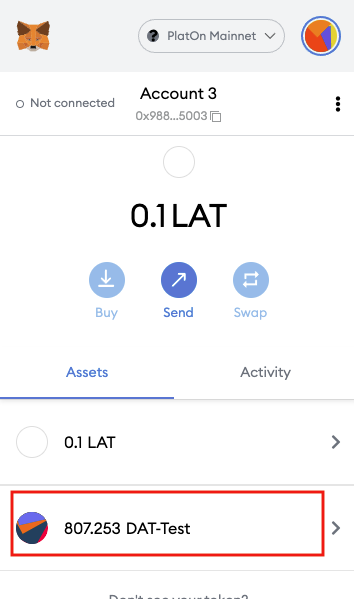
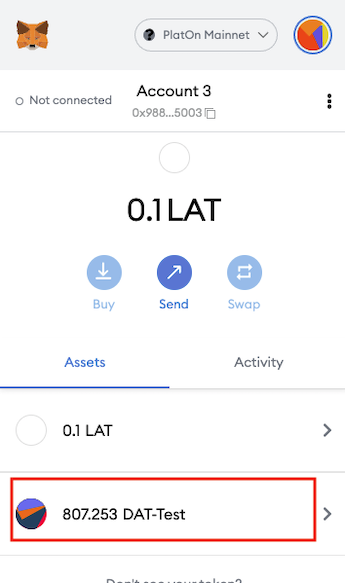
* update show dat-test md layout

diff --git a/Metamask-shows-DAT-Test.md b/Metamask-shows-DAT-Test.md
@@ -10,20 +10,23 @@ You can find tutorial [here](https://forum.latticex.foundation/t/topic/5862)
 
 ## Import your private key
 
-<center class="half">
-  <img src="./images/ImportAccount.png" width=300"/><img src="./images/EnterPrivateKey.png" width="300"/>
-</center>
+<p float="left">
+  <img src="./images/ImportAccount.png"/>
+  <img src="./images/EnterPrivateKey.png"/>
+</p>
 
 ## Import DAT-Test Token
 
 DAT-Test contract address `0x4a23ca00871cf9e40c9214e7c648e9cba6c09729`
 
-<center class="half">
-  <img src="./images/ImportToken1.png" width="300"/><img src="./images/ImportToken2.png" width="300"/>
-</center>
+<p float="left">
+  <img src="./images/ImportToken1.png"/>
+  <img src="./images/ImportToken2.png"/>
+</p>
 
-<center class="half">
-  <img src="./images/ImportToken3.png" width="300"/><img src="./images/ImportToken4.png" width="300"/>
-</center>
+<p float="left">
+  <img src="./images/ImportToken3.png"/>
+  <img src="./images/ImportToken4.png"/>
+</p>
 
 Now you can see the balance of DAT-Test.
